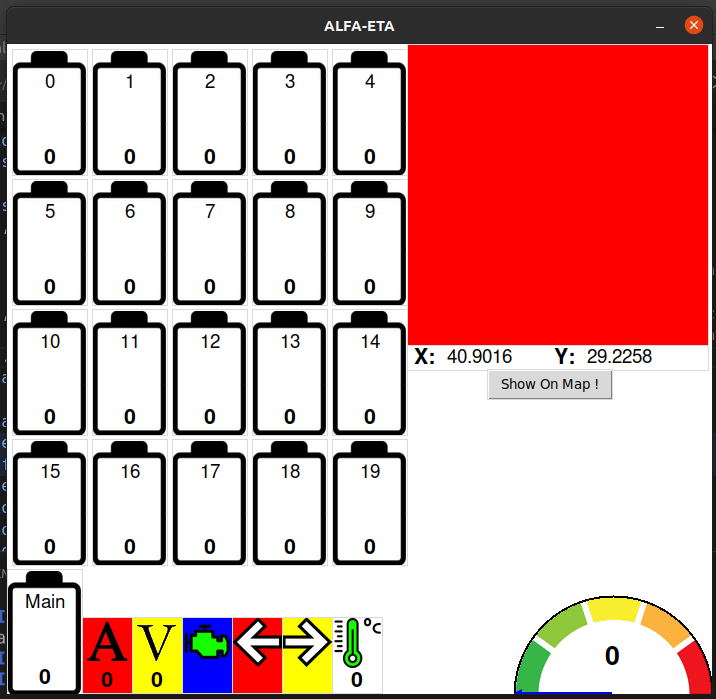
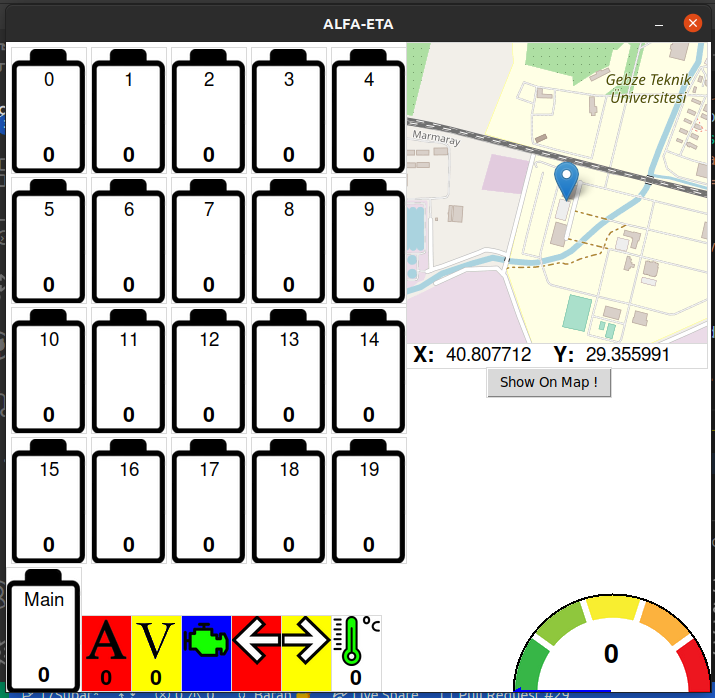
Location Updated

diff --git a/Map/map.html b/Map/map.html
@@ -23,7 +23,7 @@
             <meta name="viewport" content="width=device-width,
                 initial-scale=1.0, maximum-scale=1.0, user-scalable=no" />
             <style>
-                #map_f69372314e584a82bc35b4fa31a4fae5 {
+                #map_7e5f5852864945d180613ae496789fdb {
                     position: relative;
                     width: 100.0%;
                     height: 100.0%;
@@ -35,15 +35,15 @@
 </head>
 <body>    
     
-            <div class="folium-map" id="map_f69372314e584a82bc35b4fa31a4fae5" ></div>
+            <div class="folium-map" id="map_7e5f5852864945d180613ae496789fdb" ></div>
         
 </body>
 <script>    
     
-            var map_f69372314e584a82bc35b4fa31a4fae5 = L.map(
-                "map_f69372314e584a82bc35b4fa31a4fae5",
+            var map_7e5f5852864945d180613ae496789fdb = L.map(
+                "map_7e5f5852864945d180613ae496789fdb",
                 {
-                    center: [40.9016, 29.2258],
+                    center: [40.807712, 29.355991],
                     crs: L.CRS.EPSG3857,
                     zoom: 15,
                     zoomControl: false,
@@ -55,15 +55,15 @@
 
         
     
-            var tile_layer_ce9c52b03cd944fdb1e25b894654a2bd = L.tileLayer(
+            var tile_layer_fa8dbe56d45b4cb48443f1140cc3960c = L.tileLayer(
                 "https://{s}.tile.openstreetmap.org/{z}/{x}/{y}.png",
                 {"attribution": "Data by \u0026copy; \u003ca href=\"http://openstreetmap.org\"\u003eOpenStreetMap\u003c/a\u003e, under \u003ca href=\"http://www.openstreetmap.org/copyright\"\u003eODbL\u003c/a\u003e.", "detectRetina": false, "maxNativeZoom": 18, "maxZoom": 18, "minZoom": 0, "noWrap": false, "opacity": 1, "subdomains": "abc", "tms": false}
-            ).addTo(map_f69372314e584a82bc35b4fa31a4fae5);
+            ).addTo(map_7e5f5852864945d180613ae496789fdb);
         
     
-            var marker_5a5beafca6314816988ad98edee2c792 = L.marker(
-                [40.9016, 29.2258],
+            var marker_9e6ff2416e2c438b886a342a05e7e5ae = L.marker(
+                [40.807712, 29.355991],
                 {}
-            ).addTo(map_f69372314e584a82bc35b4fa31a4fae5);
+            ).addTo(map_7e5f5852864945d180613ae496789fdb);
         
 </script>

diff --git a/main.py b/main.py
@@ -168,7 +168,7 @@ class Location:
 
         self.image = self.imageCanvas.create_image(0, 0, image=self.imag, anchor=NW)
         self.imageCanvas.pack()
-        self.imageCanvas.place(x=650, y=0)
+        self.imageCanvas.place(x=400, y=0)
         obj.window.update()
     def savePNG(self):
         opt = webdriver.ChromeOptions()
